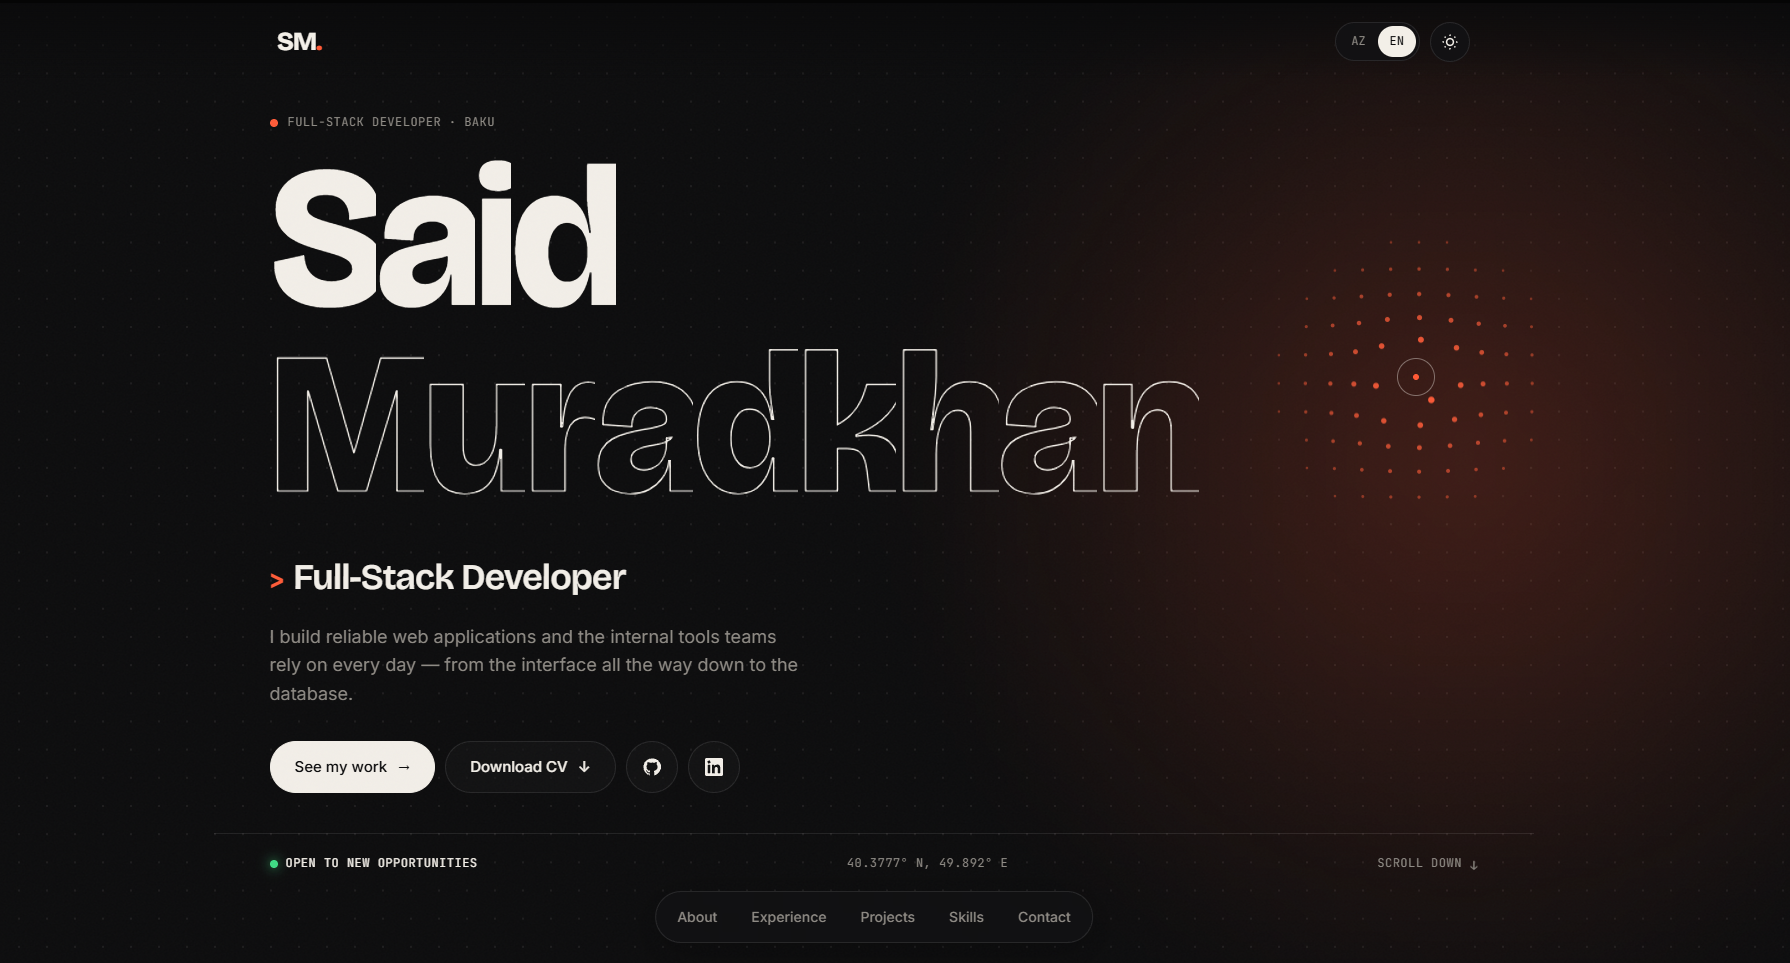
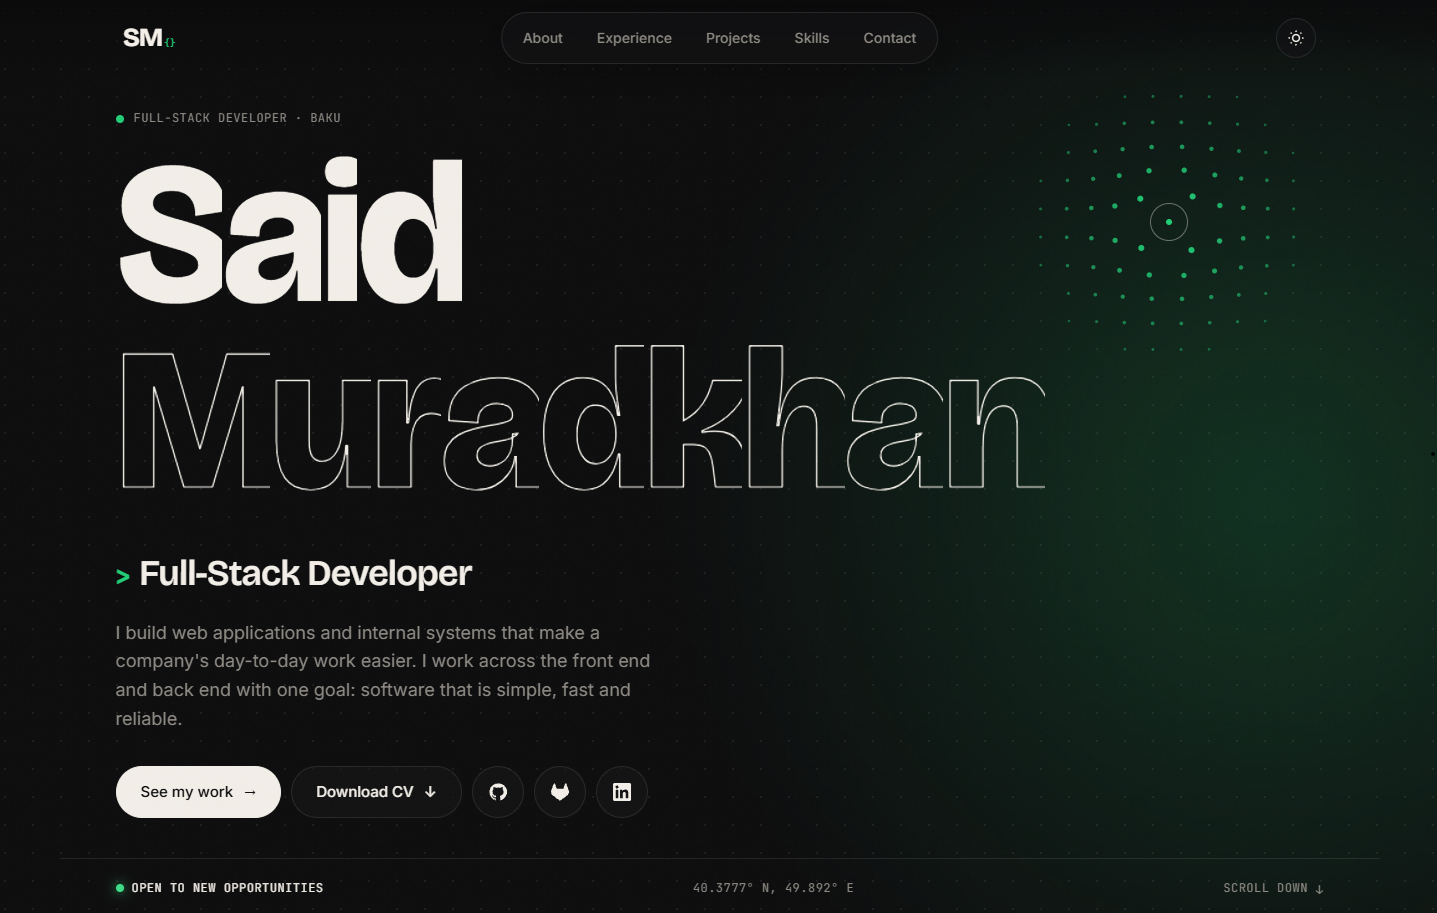
added scripts for SEO

diff --git a/index.html b/index.html
@@ -6,12 +6,62 @@
     <title>Said Muradkhan — Full-Stack Developer</title>
     <meta name="description" content="Said Muradkhan — Full-Stack Developer in Baku. I build web applications and internal systems with PHP, Laravel, React and Node.js." />
     <meta name="author" content="Said Muradkhan" />
+    <meta name="robots" content="index, follow, max-image-preview:large" />
     <meta name="theme-color" content="#0a0a0b" />
-    <meta property="og:type" content="website" />
+    <link rel="canonical" href="%VITE_SITE_URL%/" />
+    <meta property="og:type" content="profile" />
+    <meta property="og:site_name" content="Said Muradkhan" />
+    <meta property="og:url" content="%VITE_SITE_URL%/" />
     <meta property="og:title" content="Said Muradkhan — Full-Stack Developer" />
     <meta property="og:description" content="PHP · Laravel · React · Node.js — web applications that are simple, fast and reliable." />
-    <meta name="twitter:card" content="summary" />
+    <meta property="og:image" content="%VITE_SITE_URL%/og-image.jpg?v=2" />
+    <meta property="og:image:width" content="1200" />
+    <meta property="og:image:height" content="630" />
+    <meta property="og:image:alt" content="Said Muradkhan — Full-Stack Developer portfolio" />
+    <meta property="og:locale" content="en_US" />
+    <meta property="profile:first_name" content="Said" />
+    <meta property="profile:last_name" content="Muradkhan" />
+    <meta name="twitter:card" content="summary_large_image" />
+    <meta name="twitter:title" content="Said Muradkhan — Full-Stack Developer" />
+    <meta name="twitter:description" content="PHP · Laravel · React · Node.js — web applications that are simple, fast and reliable." />
+    <meta name="twitter:image" content="%VITE_SITE_URL%/og-image.jpg?v=2" />
     <link rel="icon" href="/favicon.svg" type="image/svg+xml" />
+    <script type="application/ld+json">
+      {
+        "@context": "https://schema.org",
+        "@graph": [
+          {
+            "@type": "Person",
+            "@id": "%VITE_SITE_URL%/#person",
+            "name": "Said Muradkhan",
+            "givenName": "Said",
+            "familyName": "Muradkhan",
+            "alternateName": ["Səid Muradxan", "Said Muradxan"],
+            "url": "%VITE_SITE_URL%/",
+            "image": "%VITE_SITE_URL%/og-image.jpg?v=2",
+            "jobTitle": "Full-Stack Developer",
+            "worksFor": { "@type": "Organization", "name": "Leops" },
+            "alumniOf": { "@type": "CollegeOrUniversity", "name": "Khazar University" },
+            "address": { "@type": "PostalAddress", "addressLocality": "Baku", "addressCountry": "AZ" },
+            "email": "mailto:saidmuradkhan414@gmail.com",
+            "knowsAbout": ["PHP", "Laravel", "React", "JavaScript", "Node.js", "MySQL", "PostgreSQL", "Docker"],
+            "sameAs": [
+              "https://github.com/saidmuradkhan",
+              "https://gitlab.com/saidmuradkhan414",
+              "https://www.linkedin.com/in/said-muradkhan-0103a2350/"
+            ]
+          },
+          {
+            "@type": "WebSite",
+            "@id": "%VITE_SITE_URL%/#website",
+            "url": "%VITE_SITE_URL%/",
+            "name": "Said Muradkhan",
+            "inLanguage": "en",
+            "about": { "@id": "%VITE_SITE_URL%/#person" }
+          }
+        ]
+      }
+    </script>
     <link rel="preconnect" href="https://fonts.googleapis.com" />
     <link rel="preconnect" href="https://fonts.gstatic.com" crossorigin />
     <link href="https://fonts.googleapis.com/css2?family=Bricolage+Grotesque:opsz,wght@12..96,400;12..96,600;12..96,800&family=Inter:wght@400;500;600&family=JetBrains+Mono:wght@400;500&display=swap" rel="stylesheet" />
@@ -45,6 +95,7 @@
         <p class="boot-msg" role="status">This is taking longer than usual — check your connection.<br /><a href="/">Reload the page</a></p>
         <noscript><p class="boot-msg now">This site needs JavaScript to run. Please enable it and reload.</p></noscript>
       </div>
+      <!--app-html-->
     </div>
     <script type="module" src="/src/main.jsx"></script>
   </body>

diff --git a/scripts/prerender.js b/scripts/prerender.js
@@ -1,0 +1,29 @@
+import { readFile, writeFile } from 'node:fs/promises'
+import { createServer, loadEnv } from 'vite'
+
+const dist = new URL('../dist/', import.meta.url)
+const site = loadEnv('production', process.cwd(), 'VITE_').VITE_SITE_URL?.replace(/\/+$/, '')
+if (!site) throw new Error('VITE_SITE_URL is not set (see .env)')
+
+const vite = await createServer({ server: { middlewareMode: true }, appType: 'custom', logLevel: 'error' })
+try {
+  const { render } = await vite.ssrLoadModule('/src/entry-server.jsx')
+  const file = new URL('index.html', dist)
+  const html = await readFile(file, 'utf8')
+  if (!html.includes('<!--app-html-->')) throw new Error('<!--app-html--> placeholder missing in index.html')
+  await writeFile(file, html.replace('<!--app-html-->', () => render()))
+} finally {
+  await vite.close()
+}
+
+await writeFile(new URL('robots.txt', dist), `User-agent: *\nAllow: /\n\nSitemap: ${site}/sitemap.xml\n`)
+await writeFile(new URL('sitemap.xml', dist), `<?xml version="1.0" encoding="UTF-8"?>
+<urlset xmlns="http://www.sitemaps.org/schemas/sitemap/0.9">
+  <url>
+    <loc>${site}/</loc>
+    <lastmod>${new Date().toISOString().slice(0, 10)}</lastmod>
+  </url>
+</urlset>
+`)
+
+console.log(`prerendered index.html, wrote robots.txt + sitemap.xml for ${site}`)

diff --git a/public/404.html b/public/404.html
@@ -24,7 +24,7 @@
       }
       header, footer { display: flex; justify-content: space-between; align-items: center; padding: 22px clamp(16px, 4vw, 56px); }
       .logo { font: 800 26px/1 'Bricolage Grotesque', Inter, sans-serif; letter-spacing: -0.04em; color: inherit; text-decoration: none; }
-      .logo span { color: var(--accent); }
+      .logo span { color: var(--accent); font: 500 0.36em/1 'JetBrains Mono', ui-monospace, monospace; letter-spacing: -0.28em; margin-left: 2px; vertical-align: baseline; }
       .mono { font-family: 'JetBrains Mono', ui-monospace, monospace; font-size: 12px; letter-spacing: .04em; text-transform: uppercase; color: var(--muted); }
       main { flex: 1; display: flex; flex-direction: column; justify-content: center; padding: 0 clamp(16px, 4vw, 56px); max-width: 1320px; width: 100%; margin: 0 auto; }
       .code { color: var(--accent); margin-bottom: 18px; }
@@ -50,7 +50,7 @@
   </head>
   <body>
     <header>
-      <a class="logo" href="/">SM<span>.</span></a>
+      <a class="logo" href="/">SM<span>{}</span></a>
       <span class="mono">Error 404</span>
     </header>
     <main>

diff --git a/src/styles.css b/src/styles.css
@@ -118,7 +118,7 @@ html.cursor-out .cursor-dot, html.cursor-out .cursor-ring { opacity: 0; }
 .topbar::before { content: ''; position: absolute; inset: 0; z-index: -1; background: linear-gradient(var(--bg), transparent); opacity: 0.85; pointer-events: none; }
 .topbar.hide { transform: translateY(-110%); }
 .logo { font-family: var(--display); font-weight: 800; font-size: 26px; letter-spacing: -0.04em; display: inline-block; transition: transform 0.3s var(--ease); }
-.logo span { color: var(--accent); }
+.logo span { color: var(--accent); font-family: var(--mono); font-weight: 500; font-size: 0.36em; letter-spacing: -0.28em; margin-left: 2px; vertical-align: baseline; }
 .top-actions { display: flex; gap: 10px; align-items: center; }
 .theme-btn {
   background: color-mix(in srgb, var(--bg-2) 75%, transparent); backdrop-filter: blur(12px);

diff --git a/src/components/Hero.jsx b/src/components/Hero.jsx
@@ -37,7 +37,7 @@ export default function Hero({ t, name, ready, go }) {
       <div className="wrap hero-inner">
         <p className="eyebrow mono"><span className="pulse" /> {t.eyebrow}</p>
         <h1 className="hero-title">
-          <Letters key={name.first} word={name.first} delay={100} />
+          <Letters key={name.first} word={name.first} delay={100} />{' '}
           <Letters key={name.last} word={name.last} delay={300} />
         </h1>
         <p className="hero-role"><span className="mono">&gt;</span> <Typer words={t.roles} /></p>

diff --git a/src/App.jsx b/src/App.jsx
@@ -59,7 +59,9 @@ export default function App() {
   // Honour links like /#projects once the preloader has handed over.
   useEffect(() => {
     const id = window.location.hash.slice(1)
-    if (loaded && id && document.getElementById(id)) go(id, { instant: true })
+    if (!loaded || !id) return
+    if (document.getElementById(id)) go(id, { instant: true })
+    history.replaceState(null, '', window.location.pathname + window.location.search)
   }, [loaded, go])
 
   useReveal([loaded])

diff --git a/src/components/Header.jsx b/src/components/Header.jsx
@@ -34,7 +34,7 @@ export default function Header({ t, theme, setTheme, go }) {
       <div className="progress" ref={bar} />
       <header className={`topbar ${hidden ? 'hide' : ''}`}>
         <a href="#top" className="logo" onClick={(e) => link(e, 'top')} data-magnetic>
-          SM<span>.</span>
+          SM<span>{"{ }"}</span>
         </a>
         <div className="top-actions">
           <button

diff --git a/src/components/NotFound.jsx b/src/components/NotFound.jsx
@@ -17,7 +17,7 @@ export default function NotFound() {
   return (
     <div className="nf">
       <header className="nf-bar">
-        <a className="logo" href="/">SM<span>.</span></a>
+        <a className="logo" href="/">SM<span>{"{}"}</span></a>
         <span className="mono muted">Error 404</span>
       </header>
       <main className="nf-main">

diff --git a/src/main.jsx b/src/main.jsx
@@ -20,6 +20,8 @@ class ErrorBoundary extends Component {
   }
 }
 
+if ('scrollRestoration' in history) history.scrollRestoration = 'manual'
+
 const isHome = ['/', '/index.html'].includes(window.location.pathname)
 
 createRoot(document.getElementById('root')).render(

diff --git a/src/entry-server.jsx b/src/entry-server.jsx
@@ -1,0 +1,4 @@
+import { renderToString } from 'react-dom/server'
+import App from './App.jsx'
+
+export const render = () => renderToString(<App />)
